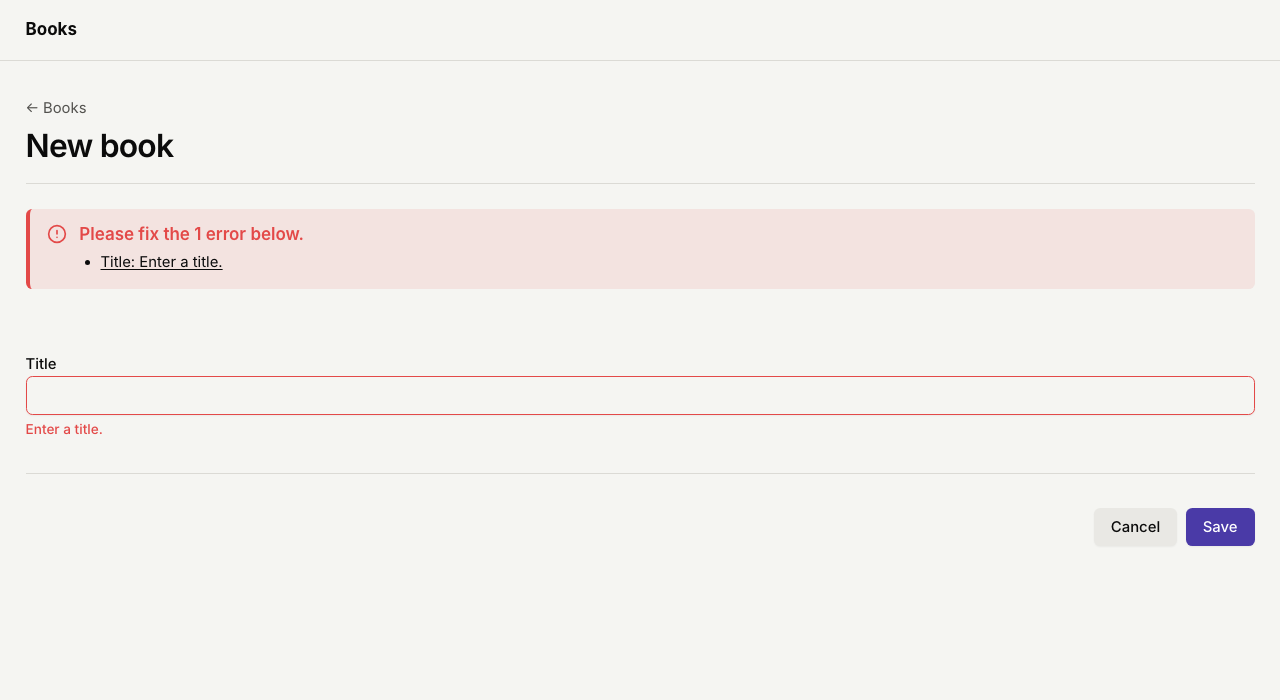
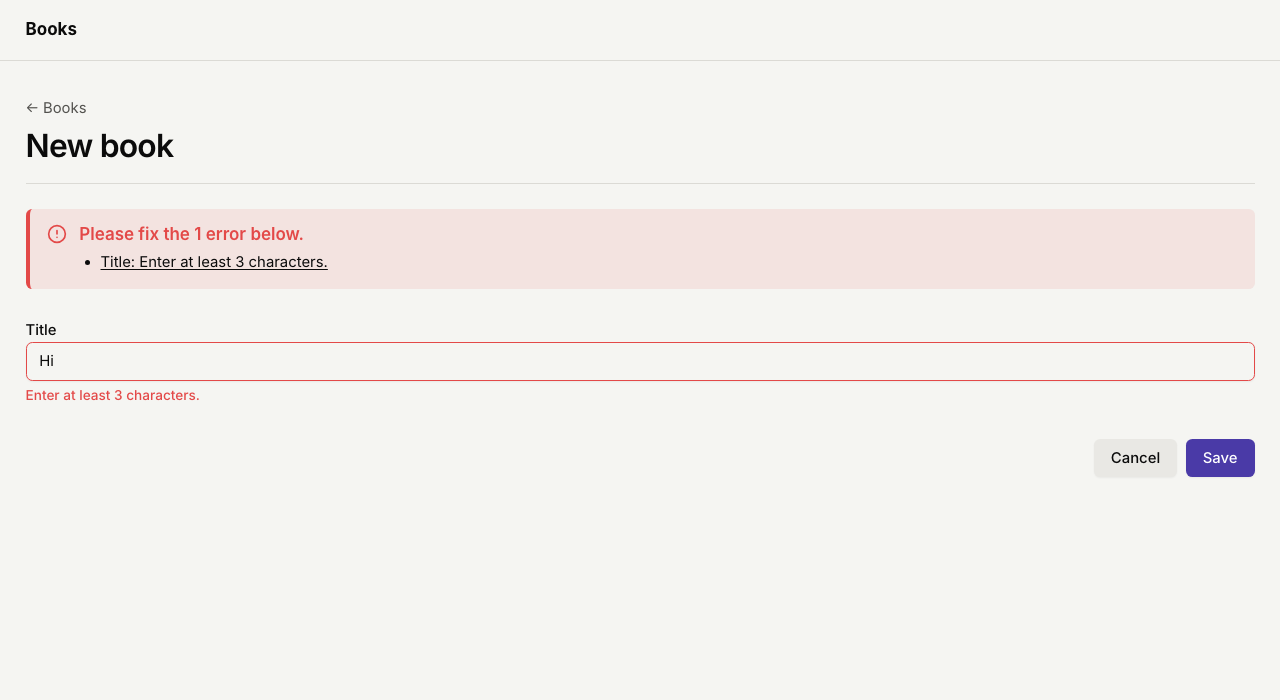
tutorial step 4: titles need at least 3 characters, so the kept value is visible; new screenshot

diff --git a/examples/04-validation/main.go b/examples/04-validation/main.go
@@ -1,4 +1,4 @@
-// Command books is tutorial step 4: the form refuses an empty title.
+// Command books is tutorial step 4: the form refuses a missing or too short title.
 package main
 
 import (
@@ -6,6 +6,7 @@ import (
 	"net/http"
 	"strings"
 	"sync"
+	"unicode/utf8"
 
 	"github.com/bplus/webframe/assets"
 	"github.com/bplus/webframe/components/action"
@@ -108,12 +109,12 @@ func newBook(w http.ResponseWriter, r *http.Request) {
 
 func createBook(w http.ResponseWriter, r *http.Request) {
 	book := Book{Title: strings.TrimSpace(r.FormValue("title"))}
-	if book.Title == "" {
+	if problem := checkTitle(book.Title); problem != "" {
 		// Show the form again: what was typed back in the field, the
 		// error under it. Respond answers 422 because Errors is set.
 		form := bookForm
 		form.Values = map[string]string{"title": r.FormValue("title")}
-		form.Errors = map[string]string{"title": "Enter a title."}
+		form.Errors = map[string]string{"title": problem}
 		if err := formpage.Respond(w, r, "New book", form); err != nil {
 			log.Print(err)
 		}
@@ -124,6 +125,19 @@ func createBook(w http.ResponseWriter, r *http.Request) {
 	booksLock.Unlock()
 	flash.Success(w, r, "Saved", book.Title+" was added.")
 	appshell.Redirect(w, r, "/books")
+}
+
+// checkTitle says what is wrong with a title, or returns "" when it is fine.
+// utf8.RuneCountInString counts characters; len would count bytes, and "é"
+// is two of those.
+func checkTitle(title string) string {
+	if title == "" {
+		return "Enter a title."
+	}
+	if utf8.RuneCountInString(title) < 3 {
+		return "Enter at least 3 characters."
+	}
+	return ""
 }
 
 func routes() http.Handler {

diff --git a/examples/04-validation/main_test.go b/examples/04-validation/main_test.go
@@ -112,3 +112,41 @@ func TestEmptyTitleIsRefused(t *testing.T) {
 		t.Errorf("a refused POST saved a book: %d books before, %d after", before, after)
 	}
 }
+
+func TestShortTitleIsRefusedAndKept(t *testing.T) {
+	booksLock.Lock()
+	before := len(books)
+	booksLock.Unlock()
+
+	for _, htmx := range []bool{false, true} {
+		rec := post(t, "Hi", htmx)
+		if rec.Code != http.StatusUnprocessableEntity {
+			t.Fatalf("POST short title (htmx %v) = %d, want 422", htmx, rec.Code)
+		}
+		if rec.Header().Get("Location") != "" || rec.Header().Get("HX-Redirect") != "" {
+			t.Errorf("refused POST (htmx %v) still redirects", htmx)
+		}
+		body := rec.Body.String()
+		for _, want := range []string{"Enter at least 3 characters.", `aria-invalid="true"`, `value="Hi"`} {
+			if !strings.Contains(body, want) {
+				t.Errorf("refused form (htmx %v) is missing %q", htmx, want)
+			}
+		}
+	}
+
+	booksLock.Lock()
+	after := len(books)
+	booksLock.Unlock()
+	if after != before {
+		t.Errorf("a refused POST saved a book: %d books before, %d after", before, after)
+	}
+}
+
+func TestThreeCharacterTitleIsSaved(t *testing.T) {
+	// Three characters after trimming is enough, counted as characters:
+	// "Ève" is four bytes.
+	rec := post(t, "  Ève ", false)
+	if rec.Code != http.StatusSeeOther {
+		t.Fatalf("POST three-character title = %d, want 303", rec.Code)
+	}
+}

diff --git a/docs/tutorial/04-validation.md b/docs/tutorial/04-validation.md
@@ -1,17 +1,19 @@
 # Step 4: Bad input
 
-The form now refuses an empty title. It comes back with the error under the
-field, and nothing is saved.
+The form now refuses a title that is empty or shorter than 3 characters. It
+comes back with what you typed still in the field and the error under it,
+and nothing is saved.
 
-![The form showing "Enter a title." under the field](img/04-validation.png)
+![The form with "Hi" still in the field and "Enter at least 3 characters." under it](img/04-validation.png)
 
 ## The code
 
-Replace `main.go` from step 3 with this. Only `createBook` changed:
+Replace `main.go` from step 3 with this. `createBook` changed, and
+`checkTitle` is new:
 
 <!-- file: examples/04-validation/main.go -->
 ```go
-// Command books is tutorial step 4: the form refuses an empty title.
+// Command books is tutorial step 4: the form refuses a missing or too short title.
 package main
 
 import (
@@ -19,6 +21,7 @@ import (
 	"net/http"
 	"strings"
 	"sync"
+	"unicode/utf8"
 
 	"github.com/bplus/webframe/assets"
 	"github.com/bplus/webframe/components/action"
@@ -121,12 +124,12 @@ func newBook(w http.ResponseWriter, r *http.Request) {
 
 func createBook(w http.ResponseWriter, r *http.Request) {
 	book := Book{Title: strings.TrimSpace(r.FormValue("title"))}
-	if book.Title == "" {
+	if problem := checkTitle(book.Title); problem != "" {
 		// Show the form again: what was typed back in the field, the
 		// error under it. Respond answers 422 because Errors is set.
 		form := bookForm
 		form.Values = map[string]string{"title": r.FormValue("title")}
-		form.Errors = map[string]string{"title": "Enter a title."}
+		form.Errors = map[string]string{"title": problem}
 		if err := formpage.Respond(w, r, "New book", form); err != nil {
 			log.Print(err)
 		}
@@ -137,6 +140,19 @@ func createBook(w http.ResponseWriter, r *http.Request) {
 	booksLock.Unlock()
 	flash.Success(w, r, "Saved", book.Title+" was added.")
 	appshell.Redirect(w, r, "/books")
+}
+
+// checkTitle says what is wrong with a title, or returns "" when it is fine.
+// utf8.RuneCountInString counts characters; len would count bytes, and "é"
+// is two of those.
+func checkTitle(title string) string {
+	if title == "" {
+		return "Enter a title."
+	}
+	if utf8.RuneCountInString(title) < 3 {
+		return "Enter at least 3 characters."
+	}
+	return ""
 }
 
 func routes() http.Handler {
@@ -157,18 +173,24 @@ func main() {
 
 ## Run it
 
-Run `go run .`, open http://localhost:8080/books/new and press **Save** with
-the field empty, or with only spaces in it.
+Run `go run .`, open http://localhost:8080/books/new, type `Hi` and press
+**Save**. Then try it with the field empty.
 
 ## What each piece does
 
-**The `if book.Title == ""` block** in `createBook` runs when the title is
-empty after trimming spaces. It shows the form again instead of saving:
+**`checkTitle`** holds the rules. It returns the message to show, or `""`
+when the title is fine: "Enter a title." for an empty one, "Enter at least
+3 characters." for a short one. `createBook` trims spaces before calling it,
+so `"  Hi  "` counts as 2 characters.
+
+**The `if problem := checkTitle(book.Title); problem != ""` block** in
+`createBook` runs when a rule failed. It shows the form again instead of
+saving:
 
 - `form := bookForm` copies the form declaration, so the shared one stays
   clean for the next visitor.
 - `form.Values` puts back what the user sent, keyed by field name.
-- `form.Errors` sets the message for the `title` field. The message shows
+- `form.Errors` sets `problem` as the message for the `title` field. The message shows
   under the field, the field gets a red border, and a banner at the top
   lists every error with a link to its field.
 - `formpage.Respond` writes the form, and `return` stops before the save.
@@ -183,10 +205,12 @@ the old form. Your browser's developer console lists the 422 as a failed
 request; that is expected.
 
 **Why the typed value is kept.** The new page is built from `bookForm`, which
-has empty fields. Without `Values`, the user would lose what they typed and
-have to start over. With one field that costs little; with ten fields it
-would be the whole form. `Values` holds the value exactly as sent, so the
-user sees what they typed and can fix it.
+has empty fields. Without `Values`, typing `Hi` and pressing Save would bring
+back an empty box with "Enter at least 3 characters." under it, and the user
+would have to retype the title to fix it. With `Values`, `Hi` is still in the
+box, so they add a word and save. With ten fields, losing them all over one
+mistake would be much worse. `Values` holds the value exactly as sent,
+spaces included.
 
 **Why check on the server.** A check in the browser can be skipped: by
 turning JavaScript off, by sending the request with another tool, or by
@@ -194,8 +218,11 @@ typing spaces. The server is the one place every request passes through.
 
 ## Try it
 
-- Type only spaces and press **Save**. The error appears and the spaces are
-  still in the field.
+- Type only spaces and press **Save**. "Enter a title." appears and the
+  spaces are still in the field.
+- Type `Emma` and press **Save**. It is long enough, so it is saved.
+- Delete the `form.Values = ...` line, run again and submit `Hi`. The box
+  comes back empty. Put the line back.
 - Add `Required: true` to the `title` field in `bookForm`. The label gets a
   marker and the browser now refuses an empty field before it sends
   anything. Spaces still get through, which is why the server check stays.

diff --git a/docs/tutorial/README.md b/docs/tutorial/README.md
@@ -8,4 +8,4 @@ exactly the code in its example.
 1. [Hello, page](01-hello.md): one page in the webframe shell
 2. [A list](02-list.md): a sortable, paged table from a Go slice
 3. [A form](03-form.md): one text field that submits, saves and says "Saved"
-4. [Bad input](04-validation.md): the same form refuses an empty field and shows why
+4. [Bad input](04-validation.md): the same form refuses an empty or too short title and shows why
